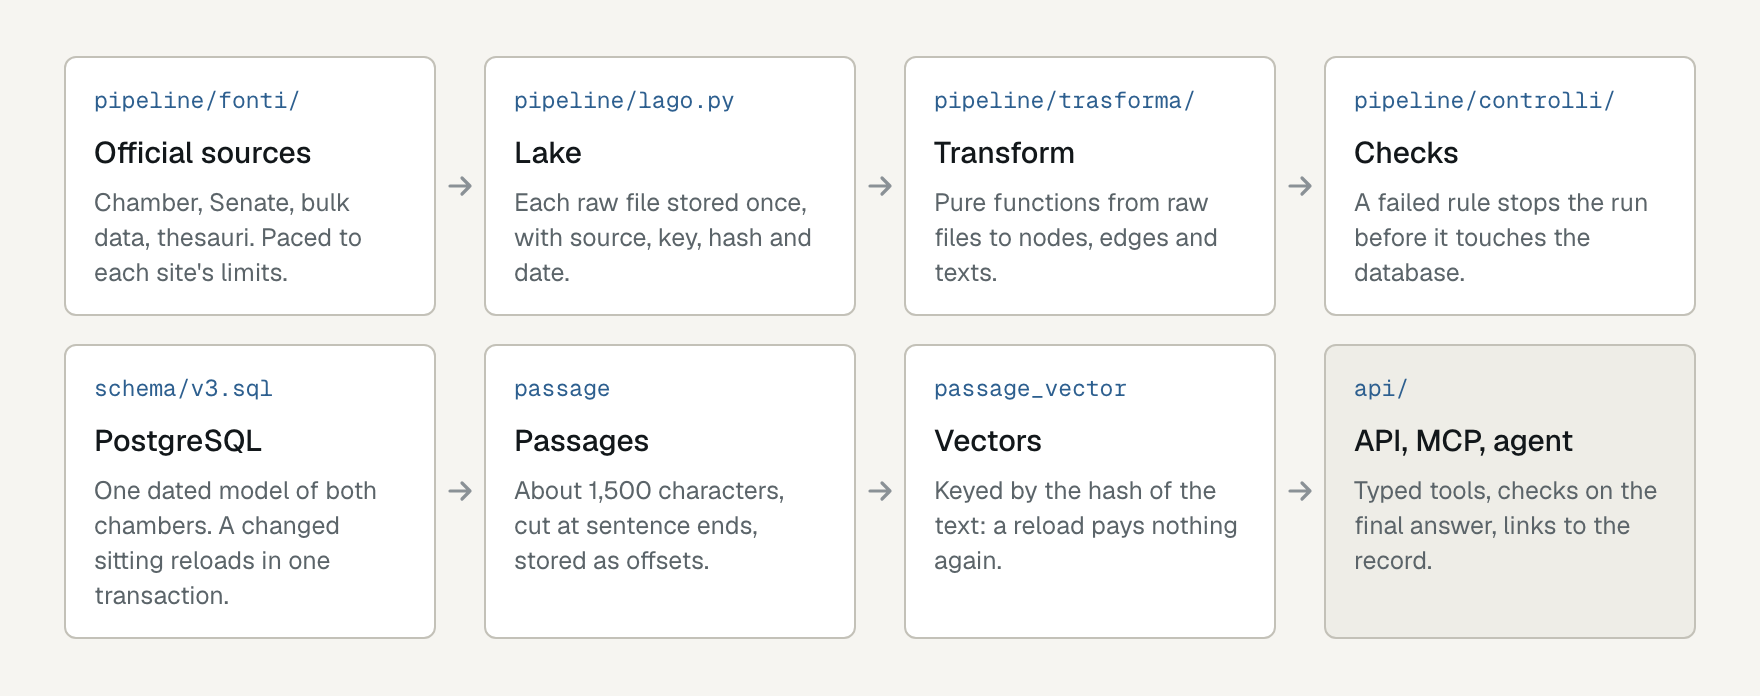
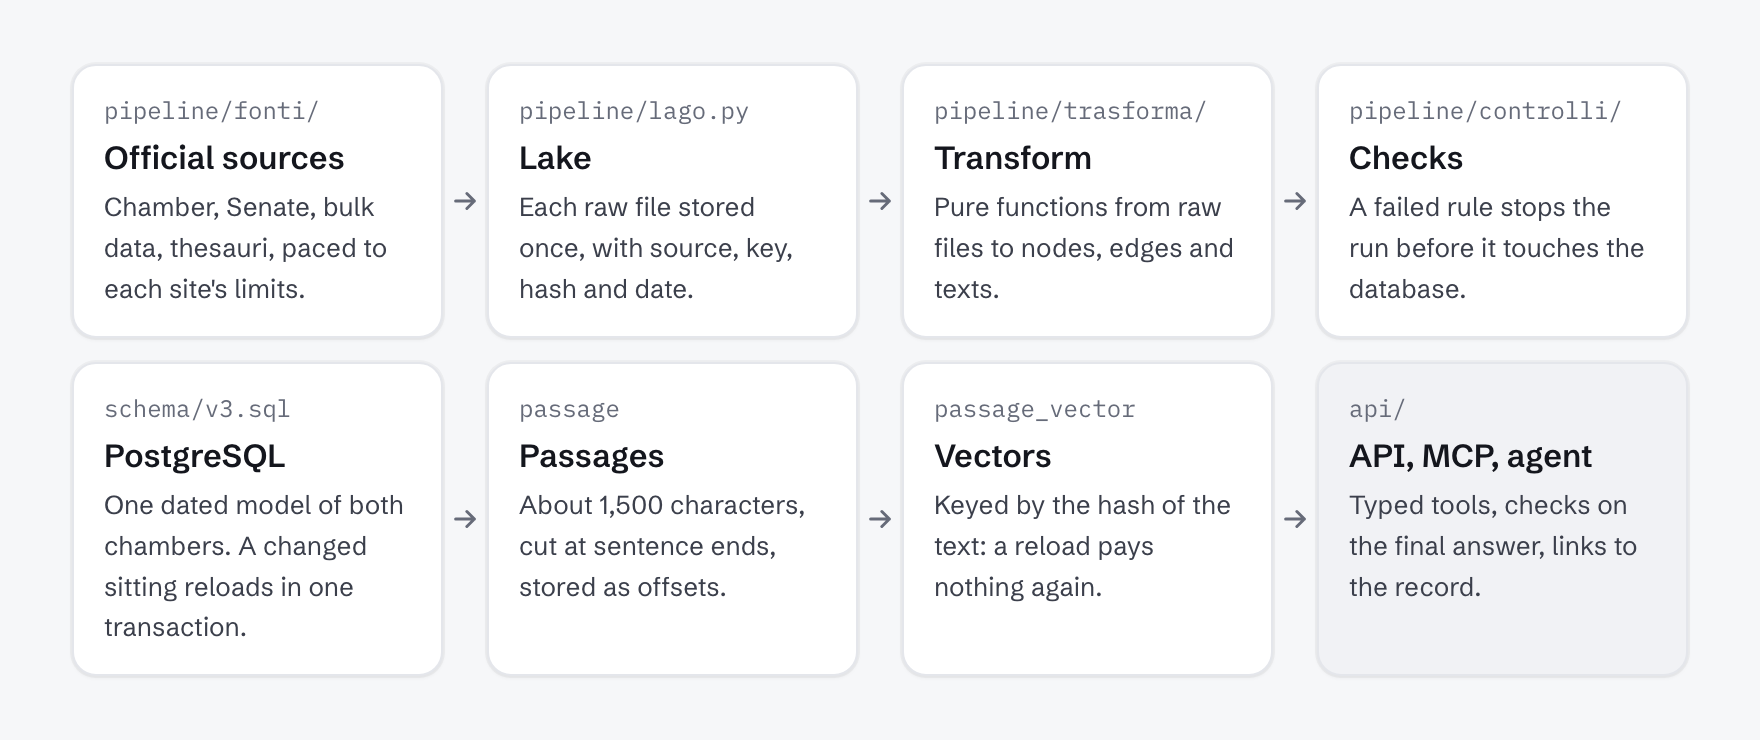
docs(readme): grafiche nello stile della piattaforma unica
Testata, fascia delle tre garanzie e schema della pipeline rifatti con i token del prototipo (Schibsted Grotesk, chiaro e netto scuro) al posto dello stile Resoconto.

diff --git a/README.md b/README.md
@@ -1,6 +1,6 @@
 <picture>
   <source media="(prefers-color-scheme: dark)" srcset="docs/assets/testata-scuro.png">
-  <img alt="ParliamentRAG: the records of the Italian Parliament in one database, and answers that you can check against them." src="docs/assets/testata-chiaro.png">
+  <img alt="ParliamentRAG. The data of the Italian Parliament. Every answer with its source." src="docs/assets/testata-chiaro.png">
 </picture>
 
 <p>
@@ -18,8 +18,8 @@ ParliamentRAG organises the records of the Italian Parliament, Chamber of Deputi
 3. **Every quote is exact.** Text between «…» matches the official record word for word and links to it.
 
 <picture>
-  <source media="(prefers-color-scheme: dark)" srcset="docs/assets/sigillo-scuro.png">
-  <img alt="Checked on every answer: every group, authoritative voices, exact quotes." src="docs/assets/sigillo-chiaro.png" width="640">
+  <source media="(prefers-color-scheme: dark)" srcset="docs/assets/garanzie-scuro.png">
+  <img alt="Three guarantees, checked on the final answer against the official records: every group, authoritative voices, exact quotes." src="docs/assets/garanzie-chiaro.png">
 </picture>
 
 This repository holds the whole system: the nightly pipeline from the official sources, the PostgreSQL schema, the semantic index, the public API, the MCP server for AI assistants, and the checks behind the three guarantees. The live service runs at [www.parliamentrag.it](https://www.parliamentrag.it).
